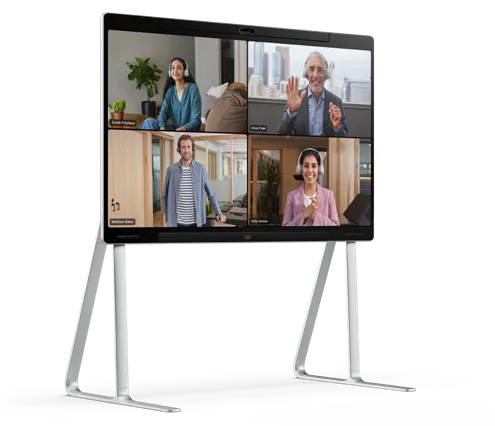
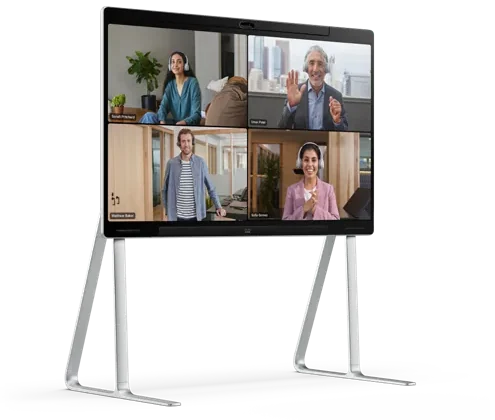
Fix Board Pro G3 brochure image mapping.
Use the floor-stand board hero from page 3 instead of the adjacent Room Bar BYOD cutout.

diff --git a/src/data/deviceImages.ts b/src/data/deviceImages.ts
@@ -12,11 +12,10 @@ function img(hash: string): string {
 export const DEVICE_IMAGES: Record<string, string> = {
   // Cisco (Collaboration Device Product Matrix brochure — June 2026)
   // Boards & integrators (pages 3–5).
-  // The brochure contains Board Pro G3 hero shots on pages 3–5. We use the
-  // clean floor-stand shot for both sizes — billboards still scale to each
-  // device's `size` entry so the 75" reads visibly larger than the 55".
-  'board-pro-g3-55': img('e98bdc9a7b'),
-  'board-pro-g3-75': img('e98bdc9a7b'),
+  // Board Pro G3 floor-stand hero (page 3, center column). Page 3 also has
+  // Room Bar BYOD (e98bdc9a7b) and Room Kit EQX (e7c7a7391f) — do not swap.
+  'board-pro-g3-55': img('9dc39ce9a6'),
+  'board-pro-g3-75': img('9dc39ce9a6'),
   'room-kit-eqx': img('e7c7a7391f'),
   'room-bar-byod': img('4519aeafbe'),
 
